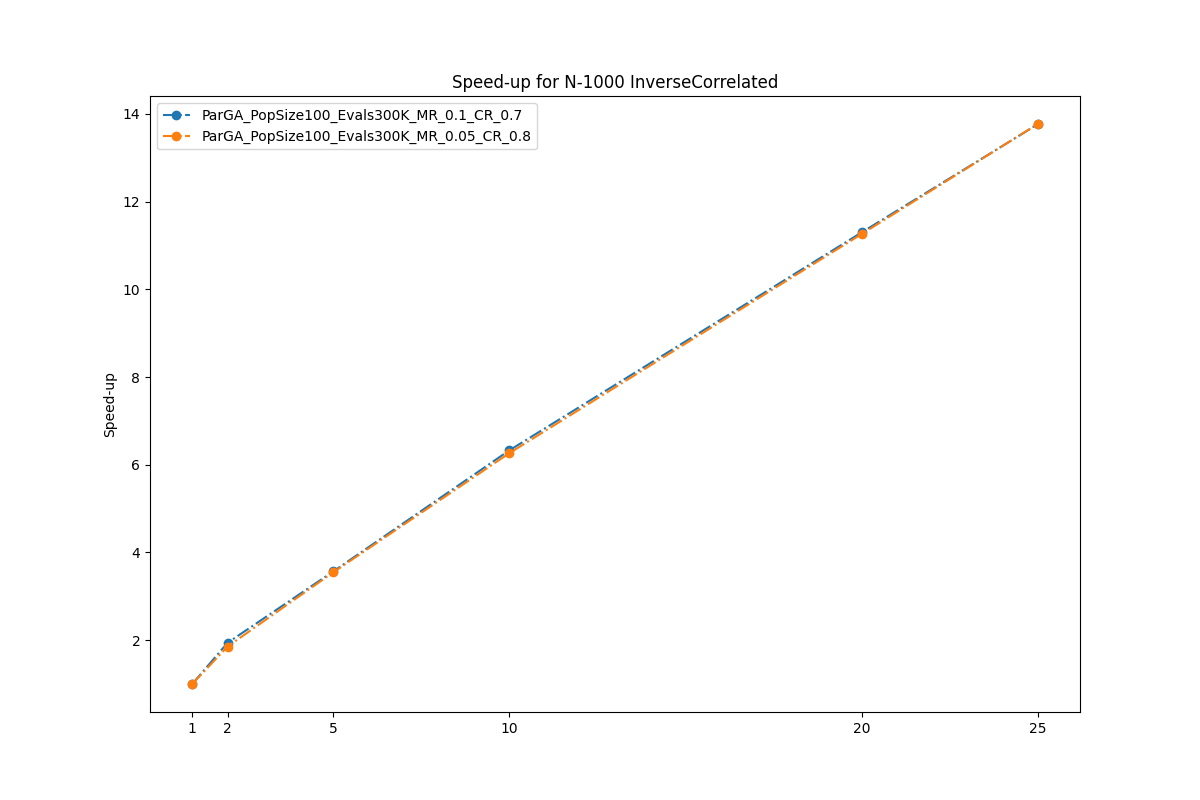
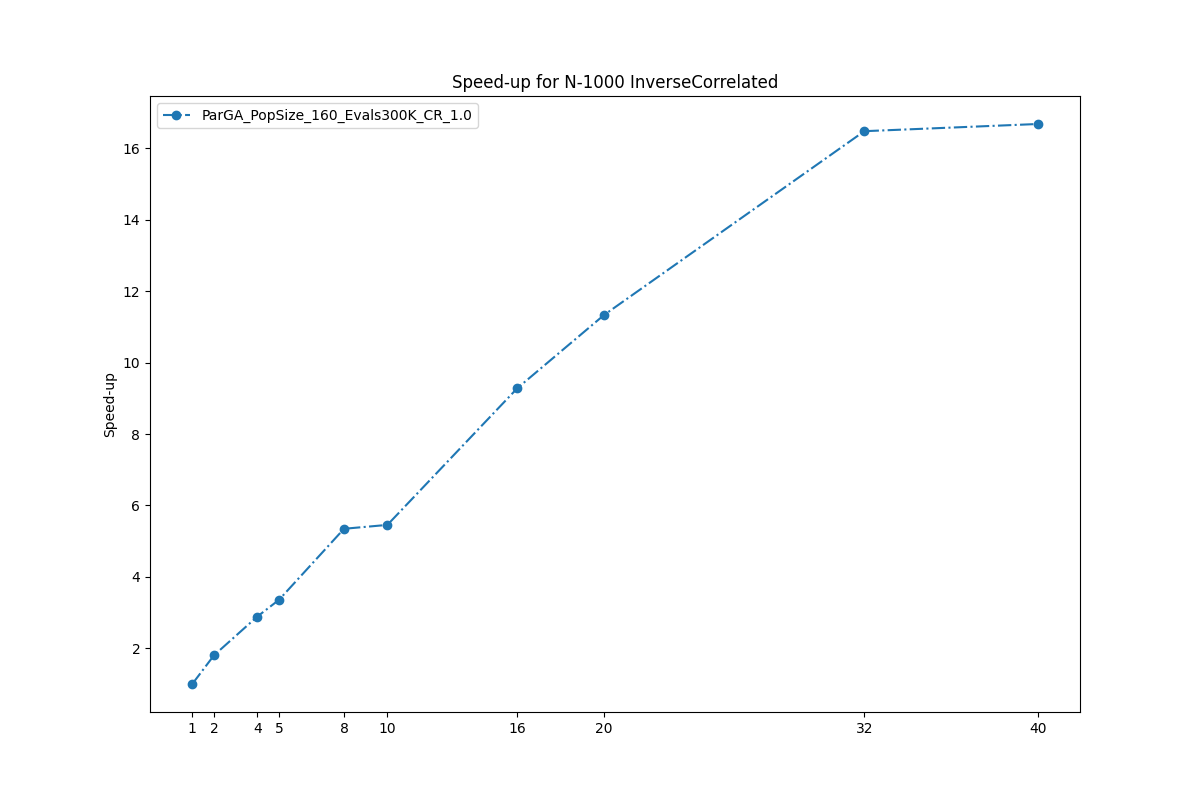
feat: Includes scalability plots and tables

diff --git a/script/scalability.py b/script/scalability.py
@@ -29,9 +29,9 @@ def parse_from_csv(files_and_threads, verbose=True):
         if verbose:
             print(df.head())
 
-    plt.plot([1, 2, 5, 10, 20, 25], speedup_data,
+    plt.plot([1, 2, 4, 5, 8, 10, 16, 20, 32, 40], speedup_data,
              linestyle='-.', marker='o')
-    plt.xlabel('number of threads')
+    plt.xlabel('number of cores')
     plt.ylabel('avg. speedup among instances')
     plt.title('Avg. Speedup for KP instances of N=1000 items')
     plt.show()

diff --git a/data/scalability/README.md b/data/scalability/README.md
@@ -1,0 +1,9 @@
+# Scalability Evaluation Results
+
+|          Instance         	|          1         	|         2         	|          4         	|         5         	|          8         	|         10         	|         16         	|         20         	|         32         	|         40         	|
+|:-------------------------:	|:------------------:	|:-----------------:	|:------------------:	|:-----------------:	|:------------------:	|:------------------:	|:------------------:	|:------------------:	|:------------------:	|:------------------:	|
+| InverseCorrelated         	| 14.168137483400004 	| 7.862563690166667 	| 4.905180242699998  	| 4.2202719526      	| 2.6495570612       	| 2.596808494666667  	| 1.5254901333333337 	| 1.2496821887666667 	| 0.8595532986333333 	| 0.8491810373       	|
+| SpannerStronglyCorrelated 	| 14.165950432166666 	| 7.773169072199999 	| 4.881208238333334  	| 4.280715614299999 	| 2.6499096233       	| 2.6034321351000007 	| 1.5281657154000006 	| 1.2528845641333335 	| 0.8733221865333334 	| 0.8520125038999998 	|
+| StronglyCorrelated        	| 14.166168790299997 	| 7.8359765293      	| 4.8562701588       	| 4.281820368833333 	| 2.6488729991       	| 2.597247416433334  	| 1.5276176487666666 	| 1.2505111727333336 	| 0.8660216755333333 	| 0.8525416978       	|
+| SubsetSum                 	| 14.167716641399997 	| 7.669251937833335 	| 4.968003105733333  	| 4.249543164433335 	| 2.6497476438666667 	| 2.597324373        	| 1.525360026166667  	| 1.2480797248000002 	| 0.8962008007000001 	| 0.8590944167333334 	|
+| Uncorrelated              	| 14.167656611999998 	| 7.938652149033334 	| 4.9455509801333335 	| 4.2702049122      	| 2.6495807114333343 	| 2.5974494339999996 	| 1.5278677853333338 	| 1.2494346334000002 	| 0.8629999689666668 	| 0.8511281114333334 	|
